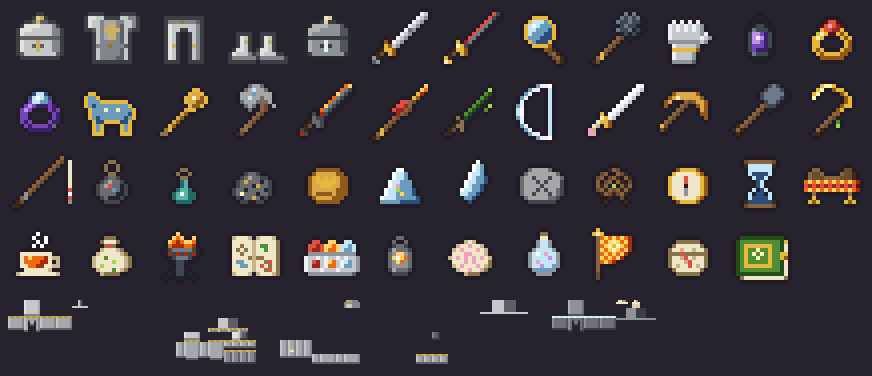
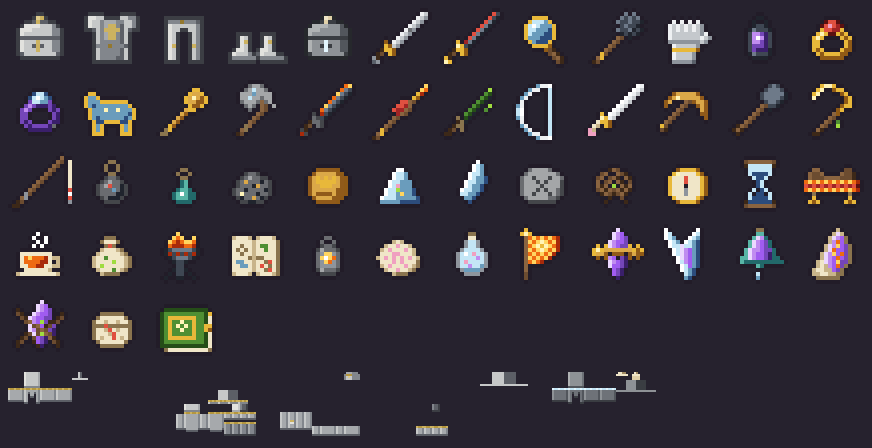
Five Choir Shards, each painted in its own shape
Claude-Session: https://claude.ai/code/session_01A4uWhYRSEH2XWBk9pdCzAk

diff --git a/studio/art/build_codex_art2.py b/studio/art/build_codex_art2.py
@@ -32,7 +32,7 @@ PAL = {k: hx(v) for k, v in {
     'K': '#a4a6a8', 'k': '#6a6c70', 'm': '#44464a',                          # stone
     'D': '#dba848', 'd': '#905a1a',                                          # bronze
     'C': '#58b5a6', 't': '#22696a',                                          # sea green
-    'h': '#f0a0c0', 'X': '#ffffff', 'x': '#221c28'}.items()}
+    'h': '#f0a0c0', 'X': '#ffffff', 'x': '#221c28', 'V': '#ecd8ff', 'U': '#a05cf0'}.items()}
 INK = (34, 28, 40)
 
 ICONS = {
@@ -111,8 +111,6 @@ ICONS = {
                       '.....jiij.......', '......ii........', '.....jiij.......', '....j.ii.j......', '...j..jj..j.....'],
  'map_of_lost_things': ['................', '..aAAAa.aAAAa...', '..AAAAAaAAAAAc..', '..AAcAAaAeeAAc..', '..AcAcAaAAeAAc..', '..AAcAAaAAAAAc..', '..AAAAcaccAAAc..',
                         '..AbbAAaAAcRAc..', '..AAbbAaARAcAc..', '..AAAAAaAAcRAc..', '..aAAAa.aAAAac..'],
- 'sunsilk_dyes': ['................', '....RR..FF..BB..', '...RRrRFFoFBBbB.', '...RrrRFooFBbbB.', '...zzzzzzzzzzzz.', '..SssSsSssSsSssz', '..SsRrsSFosSBbsz',
-                  '..SsrrsSoosSbbsz', '..SsssSsssSssssz', '...zzzzzzzzzzzZ.'],
  'ashglass_lantern': ['.......kk.......', '......k..k......', '......mkkm......', '.....mKkkkm.....', '.....kzFFzk.....', '.....kFXFok.....', '.....kzFozk.....',
                       '.....kzzzzk.....', '.....mKkkkm.....', '......mmmm......'],
  'desert_rose': ['................', '......aAa.......', '....aAAhAAa.....', '...aAhAAAhAa....', '...AAAhhAAAa....', '..aAhAhAhAhAa...', '...AAAhAhAAAc...',
@@ -121,6 +119,17 @@ ICONS = {
                   '....zBhBBBBz....', '....zBBPBBbz....', '.....zbbbbz.....', '......zzzz......'],
  'caravan_banner': ['...y............', '..yYy...........', '...WoFoFoFoO....', '...WFoFYFoFO....', '...WoFYyYFoO....', '...WFoFYFoFO....', '...WoFoFoFO.....',
                     '...WFoFoFO......', '...WoFoO........', '...W............', '...W............', '...w............', '...w............'],
+ # ---- the five Choir Shards, one from each regional boss: the same violet stone, grown through what each boss was
+ 'choir_shard_reeve': ['........V.......', '.......VPU......', '.......VPUp.....', '......VPUUp.....', '...y.yVPUppy.y..', '..yYyDDDDDDDyuy.', '..yDDdxdddxdDdu.',     # Stopped Clock: a brass cog locked round it, two hands
+                       '...u.uPUxplu.u..', '......VPUpl.....', '......VUUpl.....', '.......Upl......', '.......Upl......', '........l.......'],
+ 'choir_shard_huntsman': ['..X.......X.....', '..XB.....XB.....', '..XBb...XBb.....', '...XBb.XBbn.....', '...XBBVBBbn.....', '....XBVPUbn.....', '....XBVPUbn.....',   # Frozen Lake: forked like an antler, clear ice over the violet
+                          '.....XVPUbn.....', '.....XBPUbn.....', '......XBUbn.....', '......XBbn......', '.......Bbn......', '.......bn.......'],
+ 'choir_shard_bride': ['.......cc.......', '.......CC.......', '......CVPt......', '.....CVPUpt.....', '.....CVPUpt.....', '....CVPPUppt....', '....CVPUUplt....',     # Drowned Altar: bell-shaped, sea-green and wet, a drop falling
+                       '...CCVPUUpltt...', '...Ctttttttttt...', '.......Ct.......', '................', '.......B........', '.......b........'],
+ 'choir_shard_seneschal': ['.........a......', '........aVa.....', '.......aVPUc....', '.......aPoUc....', '......aVPFUpc...', '......aVoUUpc...', '.....aVPFUopc...',   # Faceless Vault: sand-crusted, ember running in its cracks
+                           '.....aVPUoUpc...', '....aAVPUFppc...', '....aAaPUopc....', '...aAAaaUpc.....', '...aaAAaacc.....', '....cccccc......'],
+ 'choir_shard_mother': ['........V.......', '.......VPU......', '..v....VPUp.....', '..wv..VPUUp..v..', '...wvVPUUpp.vw..', '....wWPUEpvvw...', '.....VwWUvwp....',     # Cradle Tree: roots grip it, fen-light where they cross
+                        '.....VPwWwpl....', '....vwVwEWwl....', '...vw.wUplWv....', '..vw..vUpl.wv...', '..v....vl...v...', '................'],
  'caravan_rations': ['................', '.....cccccc.....', '....cAAAAAAc....', '...cAAaAAaAAc...', '...cccRcccccc...', '...cAAaRAaAAc...', '...cAAAaRAAAc...',
                      '...cAaAARAaAc...', '....cAAAAAAc....', '.....cccccc.....'],                                                         # a waxed-cloth bundle, tied with red cord
  'codex': ['................', '...fffffffffff..', '..feeeeeeeeeefy.', '..feyyyyyyyeefA.', '..feyeeYeeyeefA.', '..feyeYeYeyeeyy.', '..feyeeYeeyeeyu.',
